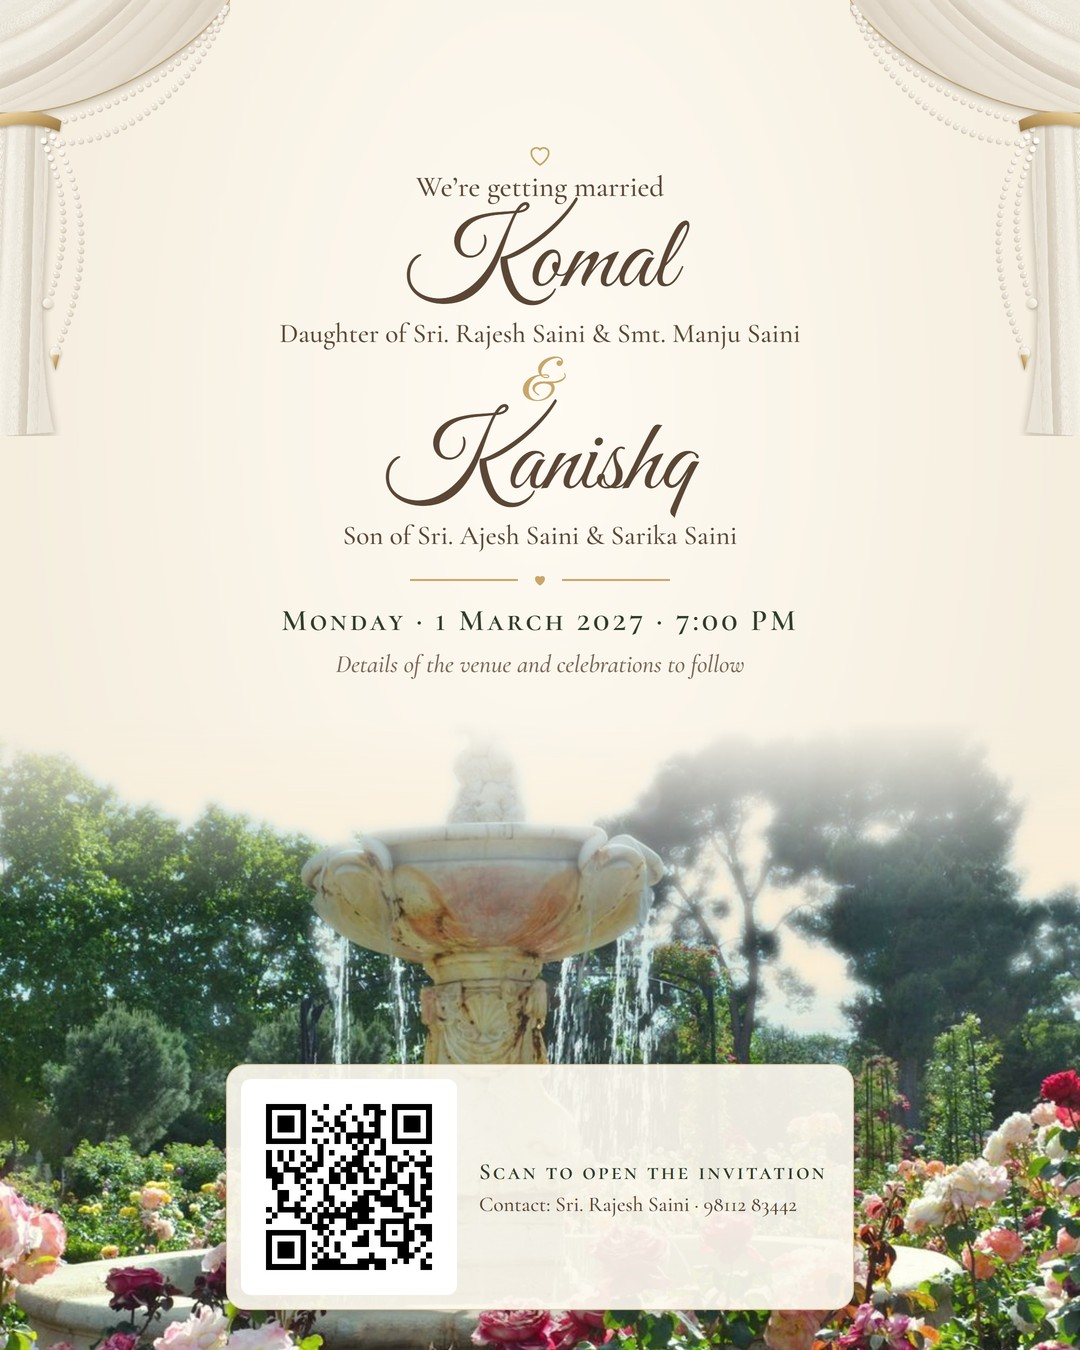
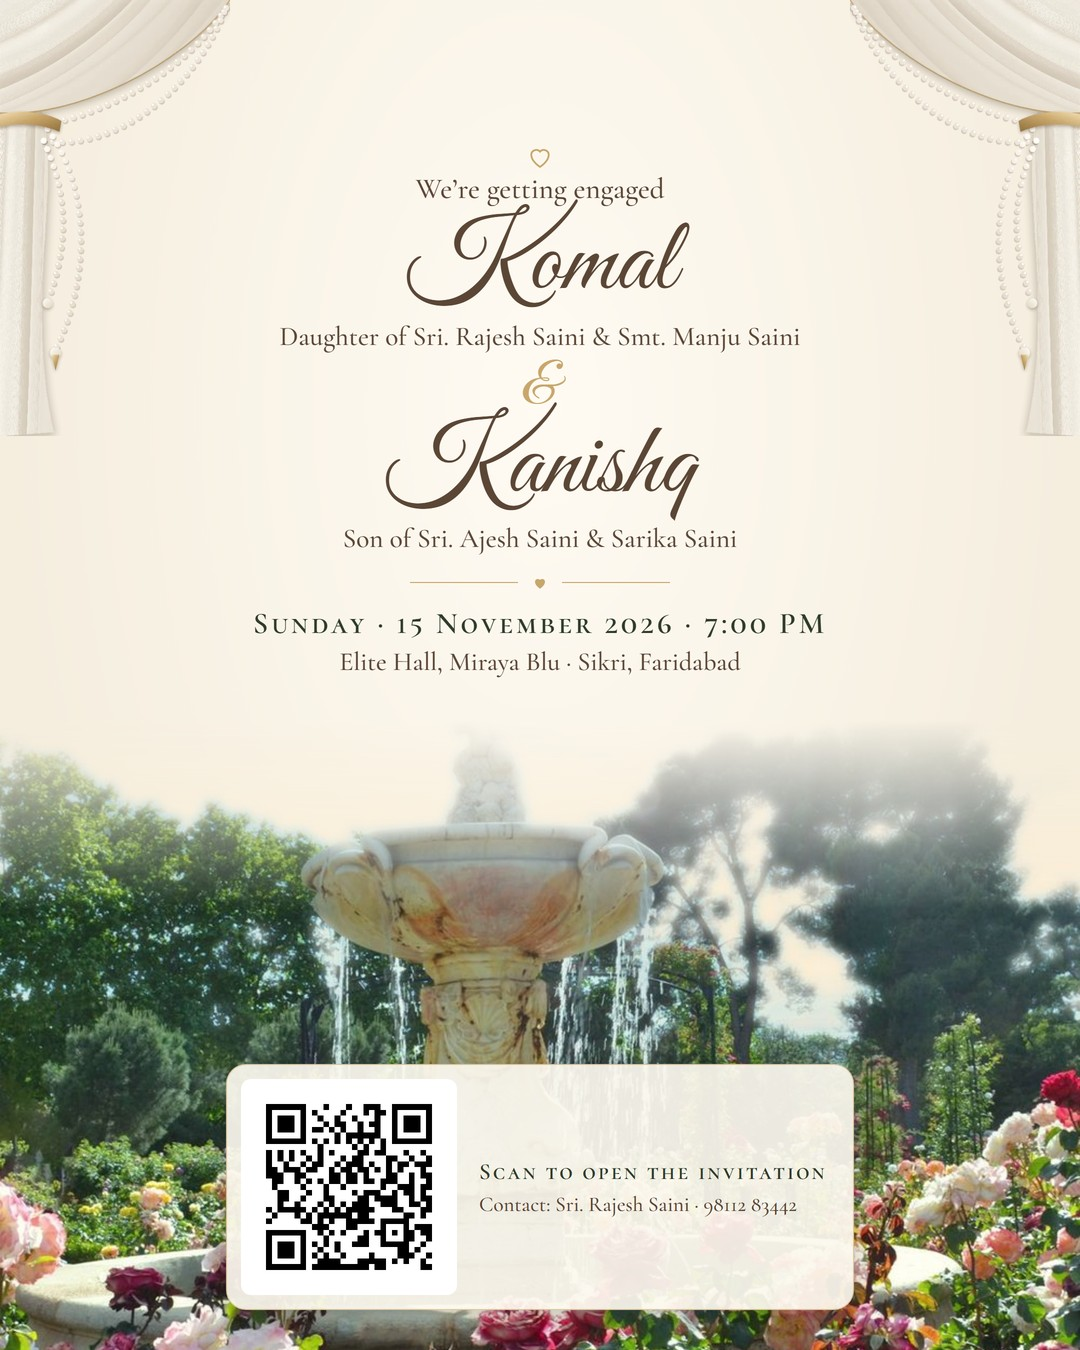
Turn invitation into engagement invite: 15 Nov 2026, Miraya Blu
Engagement wording, date and countdown; Elite Hall, Miraya Blu venue with
embedded Google Map and directions; programme timeline and pre-wedding
events removed; card, preview and sticker regenerated.

Changed region(s): [[0.2444, 0.0933, 0.7639, 0.4978], [0.275, 0.2489, 0.3361, 0.28]]

diff --git a/index.html b/index.html
@@ -3,25 +3,25 @@
 <head>
   <meta charset="utf-8">
   <meta name="viewport" content="width=device-width, initial-scale=1, viewport-fit=cover">
-  <title>Komal &amp; Kanishq · Wedding Invitation</title>
-  <meta name="description" content="You are warmly invited to the wedding of Komal &amp; Kanishq on Monday, 1 March 2027.">
+  <title>Komal &amp; Kanishq · Engagement Invitation</title>
+  <meta name="description" content="You are warmly invited to the engagement of Komal &amp; Kanishq on Sunday, 15 November 2026 at Miraya Blu, Faridabad.">
   <meta name="theme-color" content="#7a8456">
   <script>document.documentElement.className = 'js locked';</script>
 
   <!-- Link preview (WhatsApp / Facebook / X). og:image MUST be an absolute https URL. -->
   <meta property="og:type" content="website">
-  <meta property="og:title" content="Komal &amp; Kanishq · Wedding Invitation">
-  <meta property="og:description" content="Monday, 1 March 2027 · Tap to open the invitation, venue and directions.">
+  <meta property="og:title" content="Komal &amp; Kanishq · Engagement Invitation">
+  <meta property="og:description" content="Sunday, 15 November 2026 · 7:00 PM · Miraya Blu, Faridabad. Tap to open the invitation.">
   <meta property="og:url" content="https://komalkanishq.github.io/">
   <meta property="og:image" content="https://komalkanishq.github.io/preview.jpg">
   <meta property="og:image:secure_url" content="https://komalkanishq.github.io/preview.jpg">
   <meta property="og:image:type" content="image/jpeg">
   <meta property="og:image:width" content="1200">
   <meta property="og:image:height" content="630">
-  <meta property="og:image:alt" content="Komal &amp; Kanishq wedding invitation">
+  <meta property="og:image:alt" content="Komal &amp; Kanishq engagement invitation">
   <meta name="twitter:card" content="summary_large_image">
-  <meta name="twitter:title" content="Komal &amp; Kanishq · Wedding Invitation">
-  <meta name="twitter:description" content="Monday, 1 March 2027 · Tap to open the invitation, venue and directions.">
+  <meta name="twitter:title" content="Komal &amp; Kanishq · Engagement Invitation">
+  <meta name="twitter:description" content="Sunday, 15 November 2026 · 7:00 PM · Miraya Blu, Faridabad. Tap to open the invitation.">
   <meta name="twitter:image" content="https://komalkanishq.github.io/preview.jpg">
 
   <link rel="preconnect" href="https://fonts.googleapis.com">
@@ -35,9 +35,9 @@
        mapQuery: venue name + address exactly as you would type it into Google Maps -->
   <script type="application/json" id="wedding-config">
   {
-    "start": "2027-03-01T19:00:00+05:30",
+    "start": "2026-11-15T19:00:00+05:30",
     "end": "[MAIN CEREMONY END, ISO, optional]",
-    "mapQuery": "[VENUE NAME, FULL ADDRESS]"
+    "mapQuery": "Miraya Blu, Sikri, Faridabad, Haryana 121004"
   }
   </script>
 </head>
@@ -63,7 +63,7 @@
       <img class="drape drape-r" src="assets/drape.webp" alt="">
       <div class="hero-text">
         <svg class="hero-heart" aria-hidden="true"><use href="#i-heart"/></svg>
-        <p class="kicker">We’re getting married</p>
+        <p class="kicker">We’re getting engaged</p>
         <h1 class="sr-only">Komal &amp; Kanishq</h1>
         <p class="name">Komal</p>
         <p class="who">Daughter of Sri.&nbsp;Rajesh&nbsp;Saini &amp; Smt.&nbsp;Manju&nbsp;Saini</p>
@@ -83,7 +83,7 @@
     <!-- 3. Welcome -->
     <section class="sec welcome reveal">
       <div class="hr"><svg><use href="#i-heart-f"/></svg></div>
-      <p>We are honored to welcome you to the wedding ceremony of Komal &amp; Kanishq. As they begin their journey together in faith and love, we thank you for being part of this blessed occasion ♥</p>
+      <p>We are honored to welcome you to the engagement ceremony of Komal &amp; Kanishq. As they take the first step towards a lifetime together, we thank you for being part of this blessed occasion ♥</p>
       <div class="hr"><svg><use href="#i-heart-f"/></svg></div>
     </section>
 
@@ -99,8 +99,8 @@
           </svg>
           <div class="under-text">
             <p class="u-invited">You’re Invited!</p>
-            <p class="u-date">1 March 2027</p>
-            <p class="u-day">Monday</p>
+            <p class="u-date">15 November 2026</p>
+            <p class="u-day">Sunday</p>
             <p class="u-time">7:00 PM</p>
           </div>
         </div>
@@ -134,44 +134,19 @@
       </div>
     </section>
 
-    <!-- 6. Program timeline (main day). Copy an <li> to add rows. -->
-    <section class="sec reveal">
-      <svg class="ico"><use href="#i-clock"/></svg>
-      <h2>Program Timeline</h2>
-      <div class="hr"><svg><use href="#i-heart-f"/></svg></div>
-      <ol class="timeline">
-        <li>
-          <p class="t-title">[EVENT, e.g. Guest Arrival]</p>
-          <p class="t-when">[DATE] · [TIME]</p>
-          <p class="t-note">[NOTE, optional]</p>
-        </li>
-        <li>
-          <p class="t-title">[EVENT, e.g. Wedding Ceremony]</p>
-          <p class="t-when">[DATE] · [TIME]</p>
-          <p class="t-note">[NOTE, optional]</p>
-        </li>
-        <li>
-          <p class="t-title">[EVENT, e.g. Reception]</p>
-          <p class="t-when">[DATE] · [TIME]</p>
-          <p class="t-note">[NOTE, optional]</p>
-        </li>
-      </ol>
-    </section>
-
     <!-- 7. Venue. -->
     <section class="sec reveal">
       <svg class="ico"><use href="#i-pin"/></svg>
       <h2>Venue</h2>
       <div class="hr"><svg><use href="#i-heart-f"/></svg></div>
       <img class="palace" src="assets/palace.svg" alt="">
-      <p class="venue-name">[VENUE NAME]</p>
-      <p class="venue-addr">[FULL ADDRESS]</p>
+      <p class="venue-name">Elite Hall, Miraya Blu</p>
+      <p class="venue-addr">First Floor, Main Mathura Road, near CNG Pump, opposite DPSG School, 42 Milestone, Sikri, Faridabad, Haryana 121004</p>
       <div class="map">
         <iframe id="map" title="Venue map" loading="lazy" referrerpolicy="no-referrer-when-downgrade"></iframe>
         <p class="map-ph" id="map-ph">The map appears once the venue address is filled in.</p>
-        <a class="map-open" href="[GOOGLE MAPS LINK]" target="_blank" rel="noopener">Open in Maps ↗</a>
       </div>
-      <a class="btn" href="[GOOGLE MAPS LINK]" target="_blank" rel="noopener">
+      <a class="btn" href="https://www.google.com/maps/search/?api=1&amp;query=Miraya%20Blu%2C%20Sikri%2C%20Faridabad%2C%20Haryana%20121004" target="_blank" rel="noopener">
         <svg><use href="#i-pin"/></svg> View on Google Maps
       </a>
     </section>
@@ -186,27 +161,6 @@
         <div><p class="label">Women</p><p>Traditional Indian: sarees, lehengas or anarkalis in festive hues</p></div>
         <div><p class="label">Men</p><p>Traditional Indian: kurta, sherwani or bandhgala</p></div>
       </div>
-    </section>
-
-    <!-- 9. Pre-wedding events. One <article> per event, in date order. -->
-    <section class="sec reveal">
-      <svg class="ico"><use href="#i-popper"/></svg>
-      <h2>Pre-Wedding Events</h2>
-      <div class="hr"><svg><use href="#i-heart-f"/></svg></div>
-      <article class="pre">
-        <p class="pre-name">[EVENT, e.g. Mehendi]</p>
-        <p class="pre-when">[DATE] · [TIME]</p>
-        <p class="pre-venue">[VENUE NAME]</p>
-        <p class="pre-addr">[FULL ADDRESS]</p>
-        <a class="btn btn-sm" href="[GOOGLE MAPS LINK]" target="_blank" rel="noopener"><svg><use href="#i-pin"/></svg> Open in Maps</a>
-      </article>
-      <article class="pre">
-        <p class="pre-name">[EVENT, e.g. Haldi]</p>
-        <p class="pre-when">[DATE] · [TIME]</p>
-        <p class="pre-venue">[VENUE NAME]</p>
-        <p class="pre-addr">[FULL ADDRESS]</p>
-        <a class="btn btn-sm" href="[GOOGLE MAPS LINK]" target="_blank" rel="noopener"><svg><use href="#i-pin"/></svg> Open in Maps</a>
-      </article>
     </section>
 
     <!-- 11. Gifts -->

diff --git a/script.js b/script.js
@@ -51,7 +51,7 @@
   if (start) {
     var stamp = function (d) { return d.toISOString().replace(/[-:]/g, '').replace(/\.\d{3}/, ''); };
     save.href = 'https://calendar.google.com/calendar/render?action=TEMPLATE' +
-      '&text=' + encodeURIComponent('Komal & Kanishq’s Wedding') +
+      '&text=' + encodeURIComponent('Komal & Kanishq’s Engagement') +
       '&dates=' + stamp(start) + '/' + stamp(end) +
       (filled(cfg.mapQuery) ? '&location=' + encodeURIComponent(cfg.mapQuery) : '') +
       '&details=' + encodeURIComponent(location.href.split(/[?#]/)[0]);

diff --git a/tools/preview.html b/tools/preview.html
@@ -31,7 +31,7 @@
     <img class="drape r" src="../assets/drape.webp" alt="">
     <div class="text">
       <svg class="heart" viewBox="0 0 24 24" fill="none" stroke="currentColor" stroke-width="1.5"><path d="M12 20.5s-7.5-4.6-7.5-10.4A4.3 4.3 0 0 1 12 7.4a4.3 4.3 0 0 1 7.5 2.7c0 5.8-7.5 10.4-7.5 10.4z"/></svg>
-      <p class="kicker">We’re getting married</p>
+      <p class="kicker">We’re getting engaged</p>
       <div class="names">{{BRIDE}}<span class="amp">&amp;</span>{{GROOM}}</div>
       <div class="date">{{MAIN_WHEN}}</div>
     </div>

diff --git a/tools/card.html b/tools/card.html
@@ -44,7 +44,7 @@
   <img class="drape r" src="../assets/drape.webp" alt="">
   <div class="content">
     <svg class="heart" viewBox="0 0 24 24" fill="none" stroke="currentColor" stroke-width="1.5"><path d="M12 20.5s-7.5-4.6-7.5-10.4A4.3 4.3 0 0 1 12 7.4a4.3 4.3 0 0 1 7.5 2.7c0 5.8-7.5 10.4-7.5 10.4z"/></svg>
-    <p class="kicker">We’re getting married</p>
+    <p class="kicker">We’re getting engaged</p>
     <p class="name">{{BRIDE}}</p>
     <p class="who">{{BRIDE_PARENTS}}</p>
     <p class="amp">&amp;</p>
